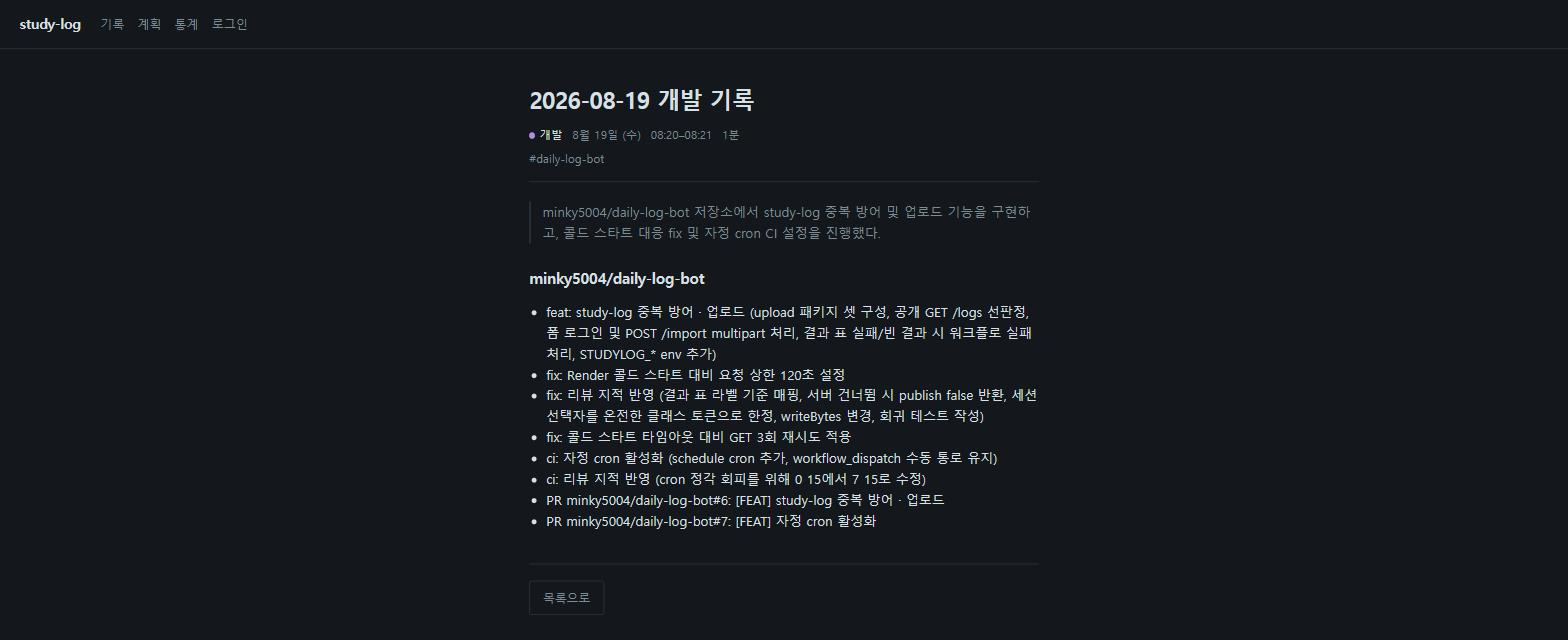
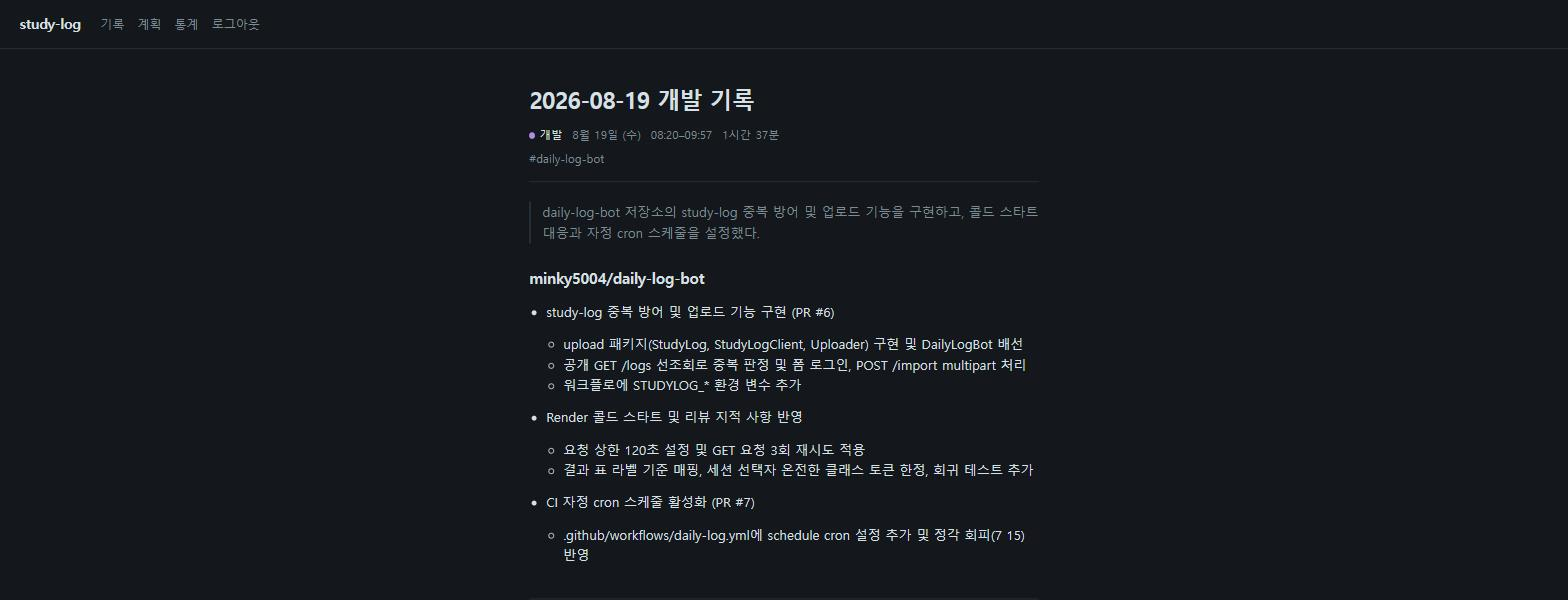
docs: 세션 합산 반영 — 캡처 · 산출물 링크 · 구조
- 캡처를 새 규칙의 노트로 교체 — 08:20~09:57 · 1시간 37분
- 산출물 링크를 /logs/133 으로 — 재생성으로 id 가 바뀐 자리
- 구조 트리의 assemble 에 세션 합산 명시

Changed region(s): [[0.3438, 0.3, 0.6562, 0.96], [0.3125, 0.12, 0.5, 0.27], [0.0, 0.03, 0.1562, 0.06]]

diff --git a/README.md b/README.md
@@ -2,7 +2,7 @@
 
 > 매일 자정 · 계정 전체의 그날 커밋과 PR 을 TIL 한 장으로 접어 [study-log](https://study-log-n6ez.onrender.com) 에 올리는 봇
 
-**산출물 — [2026-08-19 개발 기록](https://study-log-n6ez.onrender.com/logs/132)** · 배포된 화면이 아니라 매일 쌓이는 기록이 이 도구의 결과물
+**산출물 — [2026-08-19 개발 기록](https://study-log-n6ez.onrender.com/logs/133)** · 배포된 화면이 아니라 매일 쌓이는 기록이 이 도구의 결과물
 
 ![study-log 에 올라간 노트](docs/screenshots/note.png)
 
@@ -50,7 +50,7 @@ daily-log-bot/
     ├── collect/                      GitHub 조회 · KST 하루를 UTC 구간으로(DayWindow)
     ├── anonymize/                    private 세부 제거 — 이후 단계가 보는 유일한 입력
     ├── summarize/                    Gemini REST 호출 · 응답 검증(빈 값 · 상한 초과는 실행 실패)
-    ├── assemble/                     프론트매터 마크다운 조립 · 태그 · 시각
+    ├── assemble/                     세션 합산 · 프론트매터 마크다운 조립 · 태그
     └── upload/                       중복 선판정 · 폼 로그인 · _csrf 파싱 · multipart /import
 ```
 
